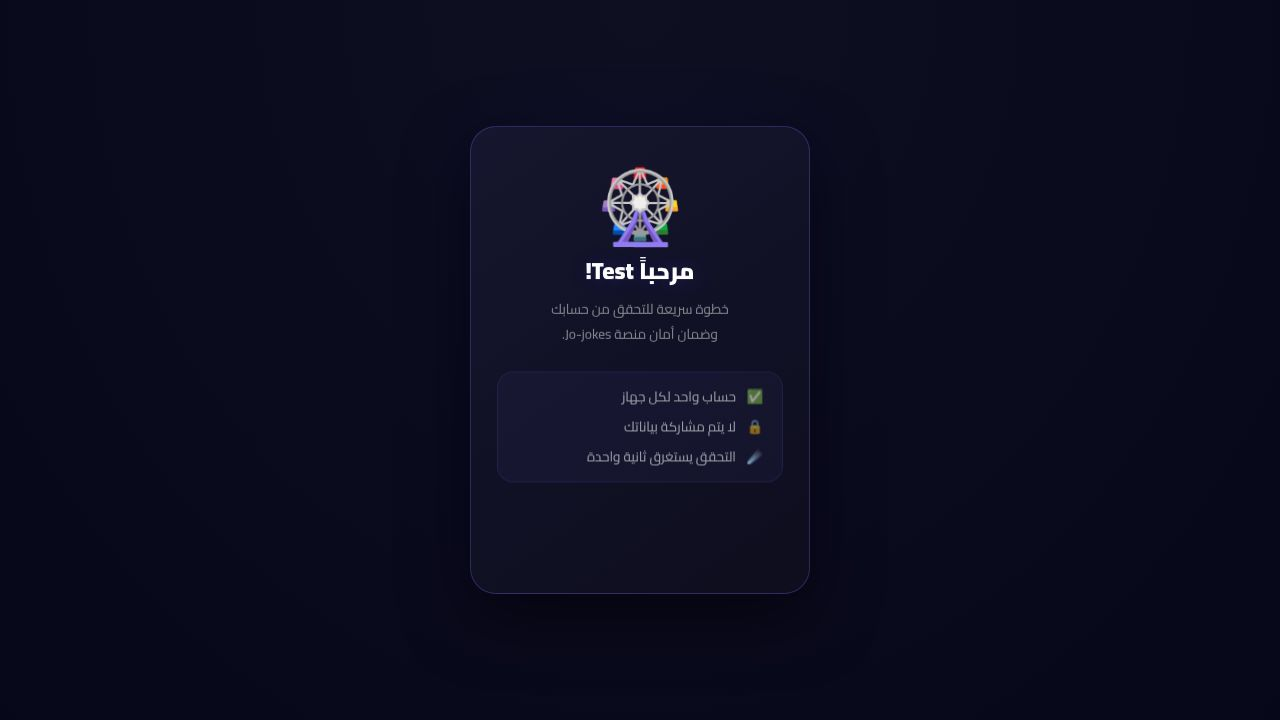
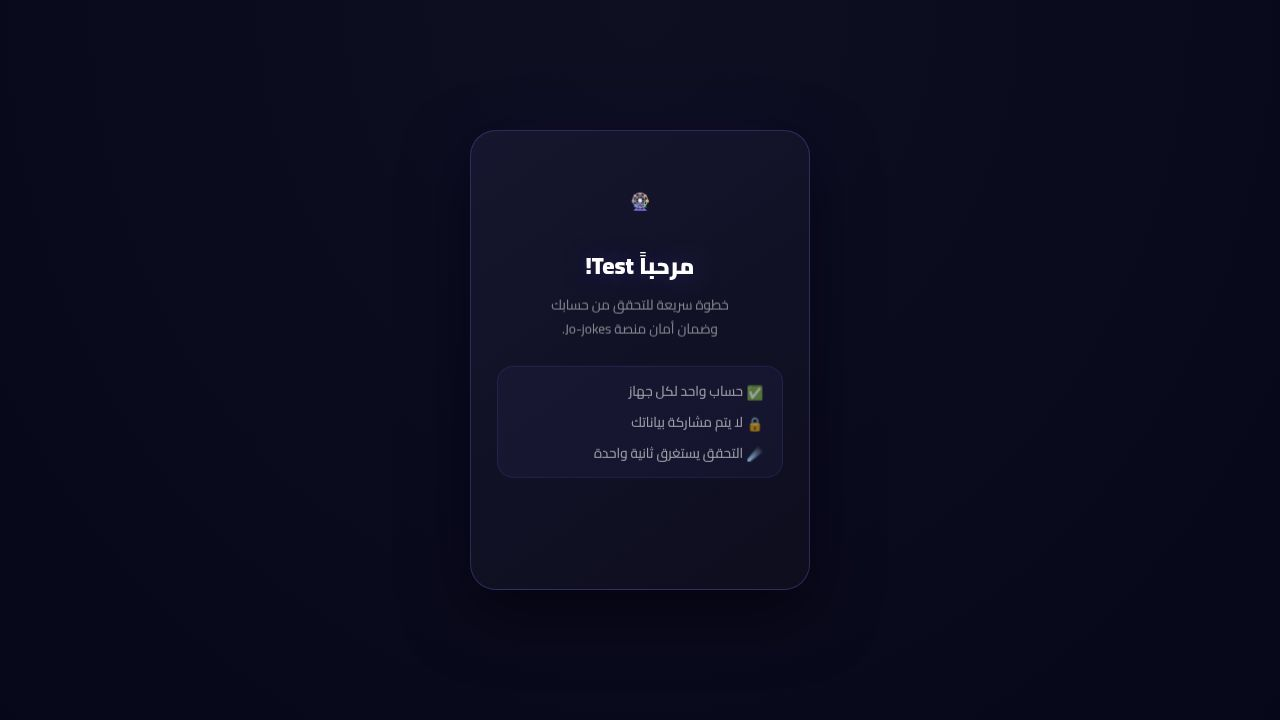
Render custom emojis from text patterns within the app
Update VerificationScreen.tsx to use the EmojiText component for dynamically rendering custom Telegram emojis from text strings containing emoji IDs.

Replit-Commit-Author: Agent
Replit-Commit-Session-Id: 26f822ea-7017-4edc-9427-0af57106518a
Replit-Commit-Checkpoint-Type: full_checkpoint
Replit-Commit-Event-Id: e82a68df-8f6b-42fe-937d-3fcf7bfd6ae3
Replit-Commit-Screenshot-Url: https://storage.googleapis.com/screenshot-production-us-central1/24955549-2f2a-4af6-88bf-8999ba8fda19/26f822ea-7017-4edc-9427-0af57106518a/JhqQPcc
Replit-Helium-Checkpoint-Created: true

Changed region(s): [[0.4375, 0.2139, 0.5625, 0.4889], [0.4375, 0.5194, 0.5938, 0.6417]]

diff --git a/artifacts/app/src/pages/VerificationScreen.tsx b/artifacts/app/src/pages/VerificationScreen.tsx
@@ -1,6 +1,7 @@
 import { useState, useEffect, useRef } from "react";
 import { api } from "../lib/api";
 import TgEmoji from "../components/TgEmoji";
+import EmojiText from "../components/EmojiText";
 
 const STYLES = `
 @keyframes vf-fadein {
@@ -259,9 +260,10 @@ export default function VerificationScreen({ firstName, onVerified, onBanned }: 
         maxWidth: 340, width: "100%", textAlign: "center",
         boxShadow: "0 24px 64px rgba(0,0,0,0.6), 0 0 80px rgba(92,64,255,0.06)",
       }}>
+        {/* ── Top icon — EmojiText parses 🎡(ID) automatically ── */}
         <div className="vf-row-0" style={{ marginBottom: 14 }}>
-          <span className="vf-emoji-top" style={{ fontSize: 70, lineHeight: 1, display: "inline-block" }}>
-            <TgEmoji id="5226711870492126219" fallback="🎡" size={68} />
+          <span className="vf-emoji-top" style={{ lineHeight: 1, display: "inline-block" }}>
+            <EmojiText text="🎡(5226711870492126219)" size={68} />
           </span>
         </div>
 
@@ -280,22 +282,22 @@ export default function VerificationScreen({ firstName, onVerified, onBanned }: 
           وضمان أمان منصة Jo-jokes.
         </p>
 
+        {/* ── Feature list — full text lines with inline emoji IDs ── */}
         <div className="vf-row-3" style={{
           background: "rgba(124,110,255,0.07)", border: "1px solid rgba(124,110,255,0.18)",
           borderRadius: 16, padding: "14px 18px", marginBottom: 22, textAlign: "right",
         }}>
           {[
-            { id: "6132003286141637383", fb: "✅", text: "حساب واحد لكل جهاز" },
-            { id: "5296369303661067030", fb: "🔒", text: "لا يتم مشاركة بياناتك" },
-            { id: "5224607267797606837", fb: "☄", text: "التحقق يستغرق ثانية واحدة" },
-          ].map(({ id, fb, text }, i) => (
-            <div key={id} style={{
+            "✅(6132003286141637383) حساب واحد لكل جهاز",
+            "🔒(5296369303661067030) لا يتم مشاركة بياناتك",
+            "☄(5224607267797606837) التحقق يستغرق ثانية واحدة",
+          ].map((line, i) => (
+            <div key={i} style={{
               display: "flex", alignItems: "center", gap: 10,
               marginBottom: i < 2 ? 10 : 0,
               fontSize: 13.5, color: "rgba(255,255,255,0.78)",
             }}>
-              <TgEmoji id={id} fallback={fb} size={18} />
-              <span>{text}</span>
+              <EmojiText text={line} size={18} />
             </div>
           ))}
         </div>
@@ -310,6 +312,7 @@ export default function VerificationScreen({ firstName, onVerified, onBanned }: 
           </div>
         )}
 
+        {/* ── CTA button — emoji parsed from text ── */}
         <div className="vf-row-5">
           <button
             className="vf-btn"
@@ -334,10 +337,7 @@ export default function VerificationScreen({ firstName, onVerified, onBanned }: 
                 جاري التحقق...
               </>
             ) : (
-              <>
-                <TgEmoji id="5296369303661067030" fallback="🔒" size={18} />
-                تحقق والدخول الآن
-              </>
+              <EmojiText text="🔒(5296369303661067030) تحقق والدخول الآن" size={18} />
             )}
           </button>
         </div>
